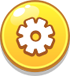
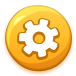
buttons are replaced and little update

diff --git a/script/objects/fruits.js b/script/objects/fruits.js
@@ -137,7 +137,7 @@ var fruits = function(game){
                 if(gem){
                 //this.y = game.rnd.integerInRange(this.min,this.min-500);
                 var y = game.world.bounds.y+game.rnd.integerInRange(1500,1800);    
-                this.x = game.rnd.integerInRange(30,320);
+                this.x = game.rnd.integerInRange(20,330);
                 gem.reset(this.x,y);
                // return;
             }
@@ -189,7 +189,7 @@ var fruits = function(game){
                 if(coco){
                 //this.y = game.rnd.integerInRange(this.min,this.min-600);
                 var y = game.world.bounds.y+game.rnd.integerInRange(1500,1800);
-                this.x = game.rnd.integerInRange(30,320);
+                this.x = game.rnd.integerInRange(30,310);
                 coco.reset(this.x,y);
                 this.flag = this.flag+1;
                 console.log('level 1');     
@@ -206,7 +206,7 @@ var fruits = function(game){
                 if(coco){
                 //this.y = game.rnd.integerInRange(this.min,this.min-600);
                 var y = game.world.bounds.y+game.rnd.integerInRange(1500,1800);
-                this.x = game.rnd.integerInRange(30,320);
+                this.x = game.rnd.integerInRange(30,310);
                 coco.reset(this.x,y);
                 this.flag = this.flag+1;
                 console.log('level 2');  
@@ -223,7 +223,7 @@ var fruits = function(game){
                 if(coco){
                 //this.y = game.rnd.integerInRange(this.min,this.min-600);
                 var y = game.world.bounds.y+game.rnd.integerInRange(1500,1800);
-                this.x = game.rnd.integerInRange(30,320);
+                this.x = game.rnd.integerInRange(30,310);
                 coco.reset(this.x,y);
                 this.flag = this.flag+1;
                 console.log('level 3');  

diff --git a/script/Preload.js b/script/Preload.js
@@ -44,11 +44,13 @@ var loadState = function(game){
            this.load.image('setting','assets/GUI/setting.png');    
            this.load.image('credit','assets/GUI/credit.png');    
            this.load.image('howtoplay','assets/GUI/howToPlay.png');      
-           this.load.spritesheet('sound','assets/GUI/sound.png',70,60); 
+           this.load.spritesheet('sound-sprite','assets/GUI/sound-sprite.png',65,65); 
            this.load.spritesheet('music','assets/GUI/music.png',70,85); 
+           this.load.image('title-bg','assets/GUI/title_bg.png');
             this.load.image('life','assets/GUI/life.png'); // Play.js
             this.load.image('stone','assets/stone.png'); // fruit.js
             this.load.image('coconut','assets/coconut.png'); // fruit.js
+            
           
           // sounds
           this.load.audio('fruitGulp',['sounds/fruitGulp.mp3','sounds/fruitGulp.ogg'],true);

diff --git a/script/Menu.js b/script/Menu.js
@@ -1,12 +1,16 @@
 var menuState = function(game){
     this.buttons = null;
+    this.titleBg = null;
 };
 
     menuState.prototype = {
         
         create: function(){
             console.log(game.state.getCurrentState());
-         
+            
+            this.titleBg = game.add.sprite(game.world.centerX,game.world.centerY,'title-bg');
+            this.titleBg.anchor.setTo(0.5,0.5);
+            this.titleBg.scale.setTo(0.6,0.6);
             game.global.menuBgSound = this.game.add.audio('menuBg',1,true);
             game.global.menuBgSound.play(); // replay from Button.js
             
